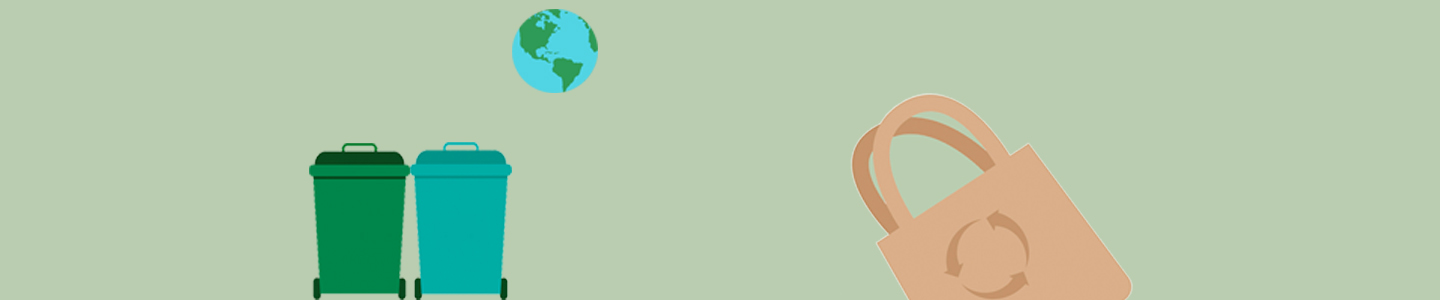
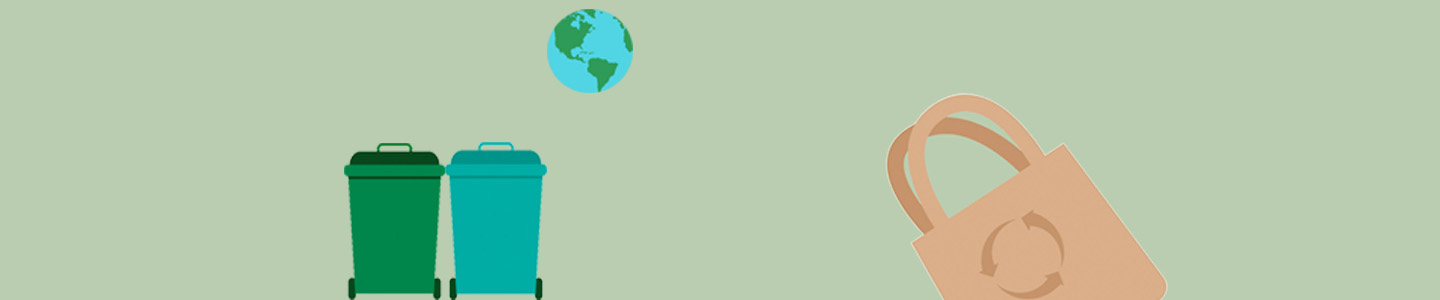
search bar design

Changed region(s): [[0.5938, 0.3, 0.8125, 1.0], [0.1875, 0.45, 0.4062, 1.0], [0.3438, 0.03, 0.4375, 0.33]]

diff --git a/assets/css/waste.css b/assets/css/waste.css
@@ -3,7 +3,7 @@
 .hero-banner {
     background-color: #BACDB0;
     display: flex;
-    justify-content: center;
+    justify-content:end;
     align-items: center;
     background-image: url(../../images/hero-banner.jpg);
     background-repeat: no-repeat;
@@ -13,40 +13,45 @@
     flex-direction: column;
 }
 
-.flex-container-column{
+/* body{
+  background-image: linear-gradient(315deg, #729B79 0%, #475B63 67%, #729B79 100%);
+
+} */
+
+.flex-container-column {
     display: flex;
     flex-direction: column;
 }
 
-#tabs{
+#tabs {
     display: flex;
     flex-direction: row;
     justify-content: space-around;
 }
 
-.flex-container{
+.flex-container {
     display: flex;
     flex-direction: column;
     /* align-items: center; */
 }
 
-input{
+input {
     margin: 1rem 0;
 }
 
-#add-general-form{
+#add-general-form {
     display: none;
 }
 
-#add-compost-form{
+#add-compost-form {
     display: none;
 }
 
-#add-recycling-form{
+#add-recycling-form {
     display: flex;
 }
 
-.add-form{
+.add-form {
     display: flex;
     flex-direction: column;
     /* width: 15rem; */
@@ -54,14 +59,95 @@ input{
 }
 
 #add-submit-new {
-  display: none;
-  justify-content: space-between;
-  align-items: center;
+    display: none;
+    justify-content: space-between;
+    align-items: center;
 }
 
 #add-submit-new input[type="submit"],
 #add-submit-new input[type="button"] {
+    flex-grow: 1;
+    width: 50%;
+    margin: 0 5px;
+}
+
+input[type='text'] {
+    width: fit-content;
+    height: fit-content;
+    position: relative;
+}
+
+#postcode-form {
+    display: flex;
+    align-items: center;
+}
+#postcode-searcher{
+    width: 250px;
+}
+
+#postcode-search {
   flex-grow: 1;
-  width: 50%;
-  margin: 0 5px;
+  border: 3px solid #ccc;
+  border-radius: 20px;
+  padding: 8px 12px;
+  width: 100%;
+  height: 100%;
+  font-family: inherit;
+  font-weight: inherit;
+  color: inherit;
+  outline: none; /* Add this line to remove the default focus outline */
+}
+
+#postcode-search:hover {
+    border-color: #F3E8EE;
+}
+
+#postcode-search:focus {
+    border-color: #96be9d;
+}
+
+#postcode-search:focus + label {
+    left: 9rem;
+    top: 1.6rem;
+    font-size: 0.8rem;
+  }
+  
+
+.search-btn {
+    background-color: #ffffff00;
+    border: none;
+    border-radius: 20px;
+    color: #475B63;
+    cursor: pointer;
+    padding: 8px 8px;
+    margin-left: 6px;
+    position: absolute;
+    right: 0.5rem;
+    top: 1rem;
+    transition: top 200ms ease;
+    /* Add margin to separate the button from the input */
+}
+
+.search-btn::before {
+    font-weight: 900;
+    margin-right: 6px;
+}
+
+.search-holder {
+    position: relative;
+    width: 100%;
+}
+
+.search-holder > label {
+    position: absolute;
+    z-index: 1;
+    left: 1rem;
+    top: 1.5rem;
+    color: #475b635e;
+    padding: 0 0.5rem;
+    background-color: rgba(255, 255, 255, 0);
+    transition: 
+    top 200ms ease-in,
+    left 200ms ease-in,
+    font-size 200ms ease-in;
 }

diff --git a/waste.html b/waste.html
@@ -13,6 +13,7 @@
     crossorigin="anonymous"></script>
   <script defer src="./assets/js/waste.js"></script>
   <script defer src="./assets/js/wasteFunctions.js"></script>
+  <script defer src="https://kit.fontawesome.com/abdde26339.js" crossorigin="anonymous"></script>
   <link rel="shortcut icon" href="./images/logo_favicon.png" type="image/x-icon">
   <title>ThRees</title>
 </head>
@@ -52,21 +53,23 @@
   </nav>
 
   <div class="hero-banner">
-    <h1>POSTCODE</h1>
-    <h2>CHECKER</h2>
+    <div id="postcode-searcher">
+      <h2 id="postcode-title">Check Your Area</h2>
+      <form id="postcode-form" method="get" class="flex-container-column">
+        <div class="search-holder">
+          <input type="text" id="postcode-search" name="postcode" required>
+          <label for="postcode-search">Postcode</label>
+          <button type="submit" class="search-btn">
+            <i class="fa-solid fa-location-dot"></i>
+          </button>
+        </div>
+      </form>
+      
+    </div>
   </div>
   <div id="tabs">
-    <div id="postcode-searcher">
-      <h2 id="postcode-title">Check your area!</h2>
-      <form id="postcode-form" method="get" class="flex-container-column">
-        <label for="postcode-search">Enter your postcode:</label>
-        <input type="text" id="postcode-search" name="postcode" required>
-        <input type="submit"></input>
-      </form>
-      <ul id="waste-data">
-      </ul>
-    </div>
-
+    <ul id="waste-data">
+    </ul>
     <div class="flex-container" id="postcode-creater">
       <h2>Add your postcode!</h2>
       <form id="add-recycling-form" class="add-form">
